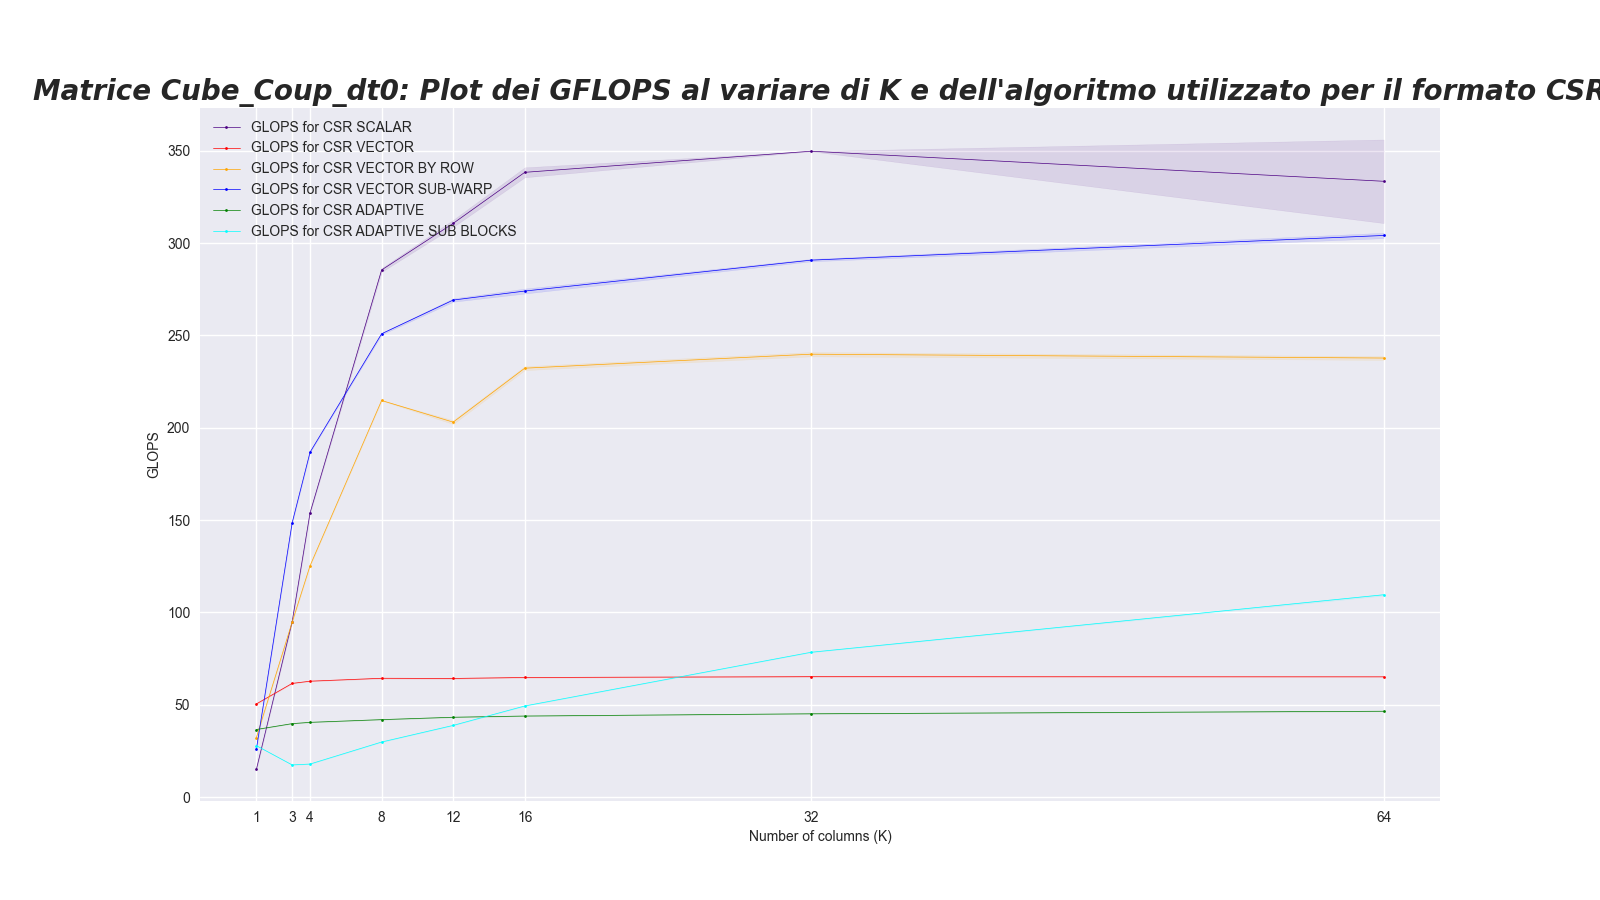
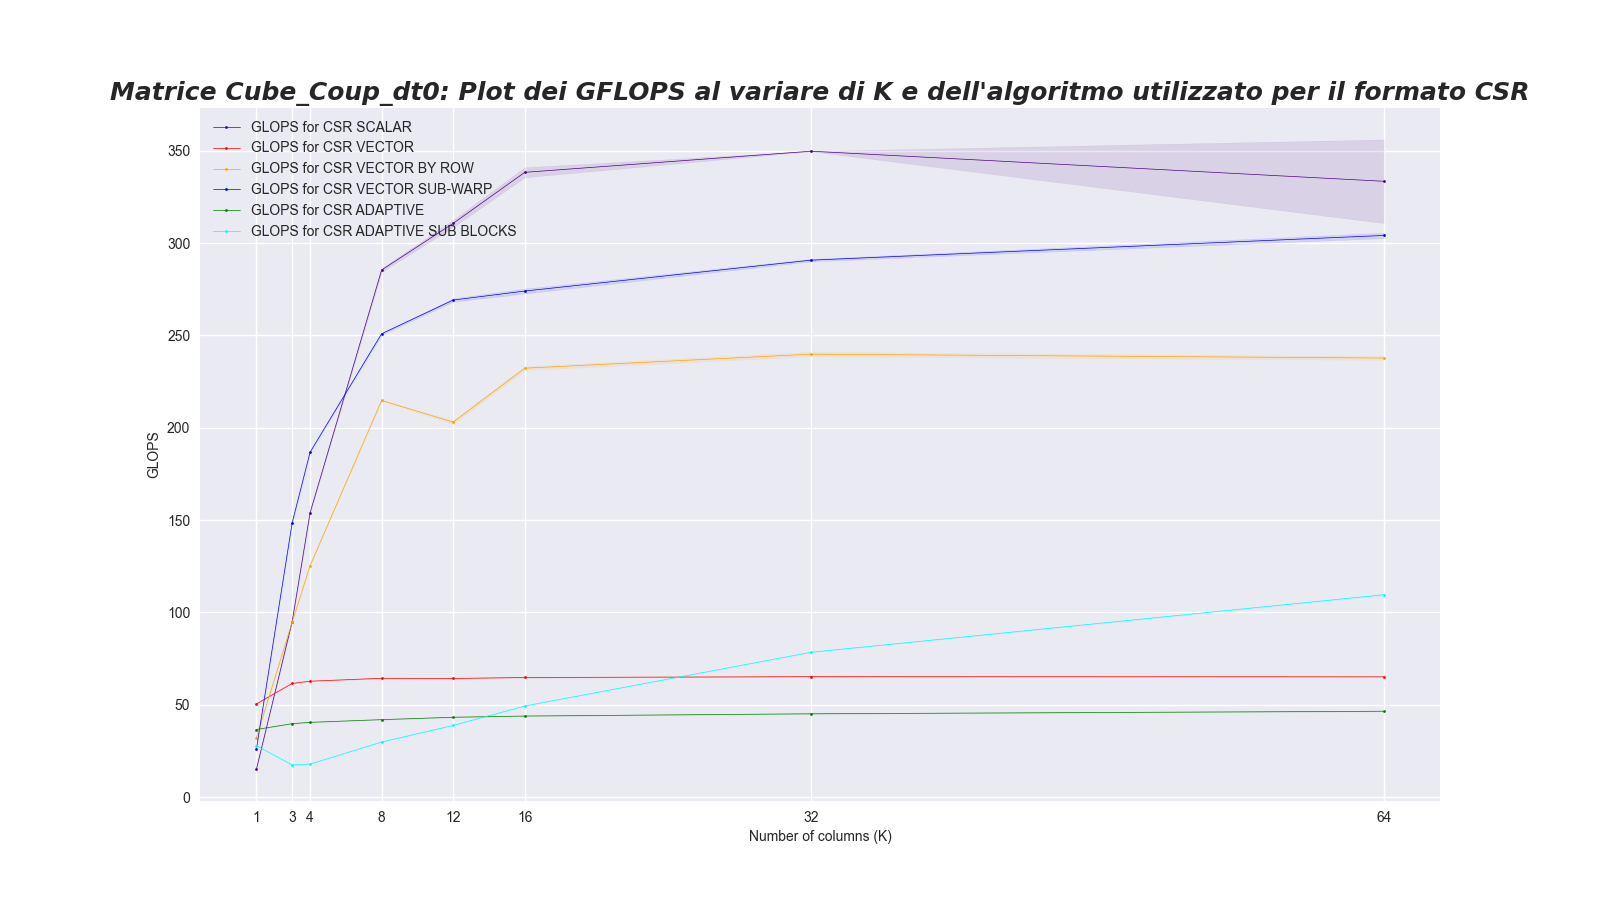
Inizio misurazione delle prestazioni

Changed region(s): [[0.0, 0.0622, 1.0, 0.1244]]

diff --git a/plots/plot-performance_GPU.py b/plots/plot-performance_GPU.py
@@ -96,7 +96,7 @@ def print_all_results_CSR():
     ax.legend(loc='upper left', shadow=True, fontsize=10)
 
     plt.title("Matrice {}: Plot dei GFLOPS al variare di K e dell'algoritmo utilizzato per il formato CSR".format(sys.argv[1]),
-              fontsize=20, fontname='DejaVu Sans', weight='bold', style='italic')
+              fontsize=18, fontname='DejaVu Sans', weight='bold', style='italic')
 
     plt.xticks(K)
 
